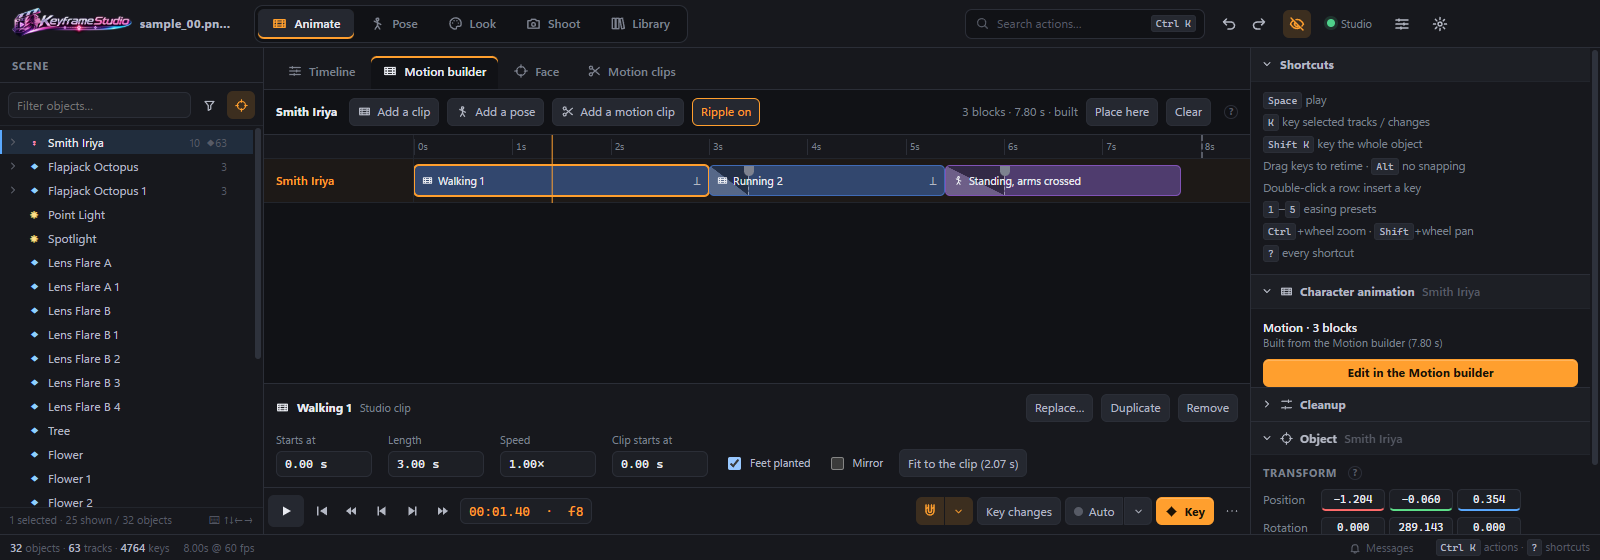
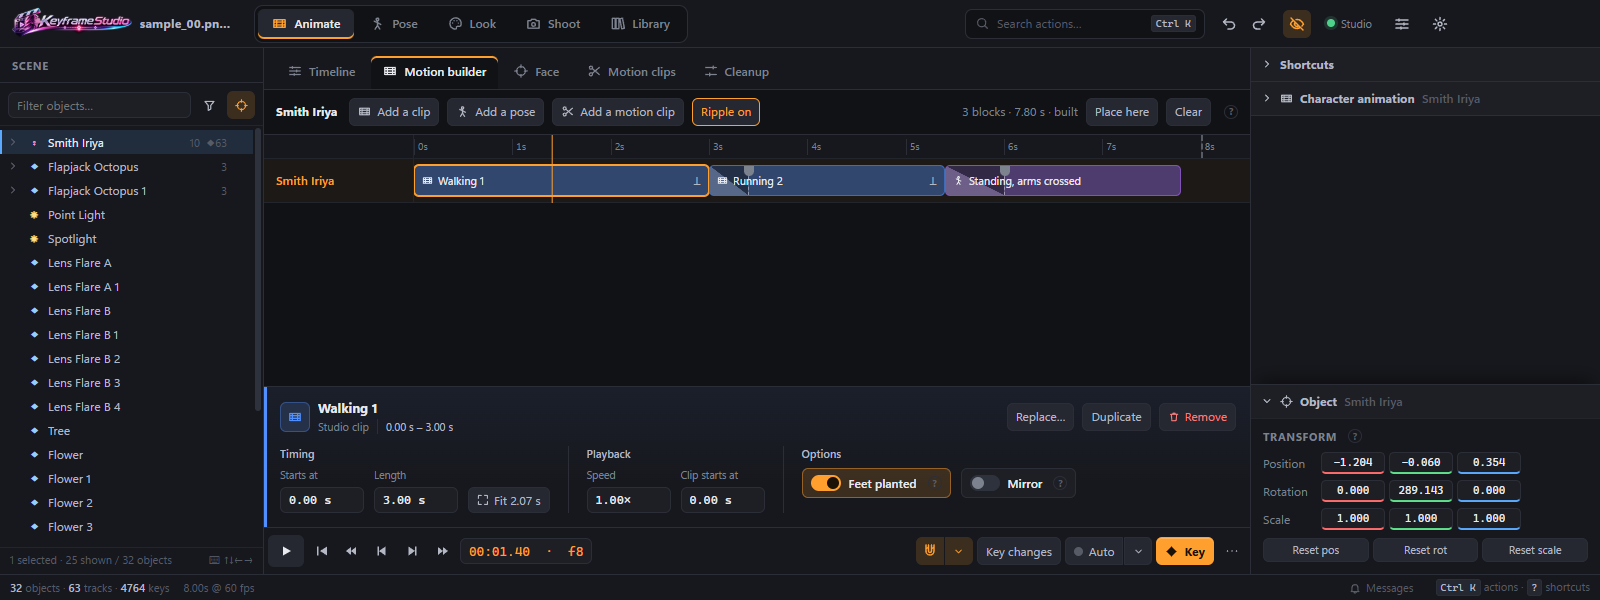
Version 0.1.4
README: the Motion builder screenshot shows the new block inspector.

diff --git a/plugin/StudioBridge/src/StudioBridgePlugin.cs b/plugin/StudioBridge/src/StudioBridgePlugin.cs
@@ -17,7 +17,7 @@ namespace StudioEX.Bridge
     {
         public const string GUID = "studioex.bridge";
         public const string Name = "Keyframe Studio Bridge";
-        public const string Version = "0.1.3";
+        public const string Version = "0.1.4";
         public const int ProtocolVersion = 1;
         internal const string TimelineGuid = "com.joan6694.illusionplugins.timeline";
 
